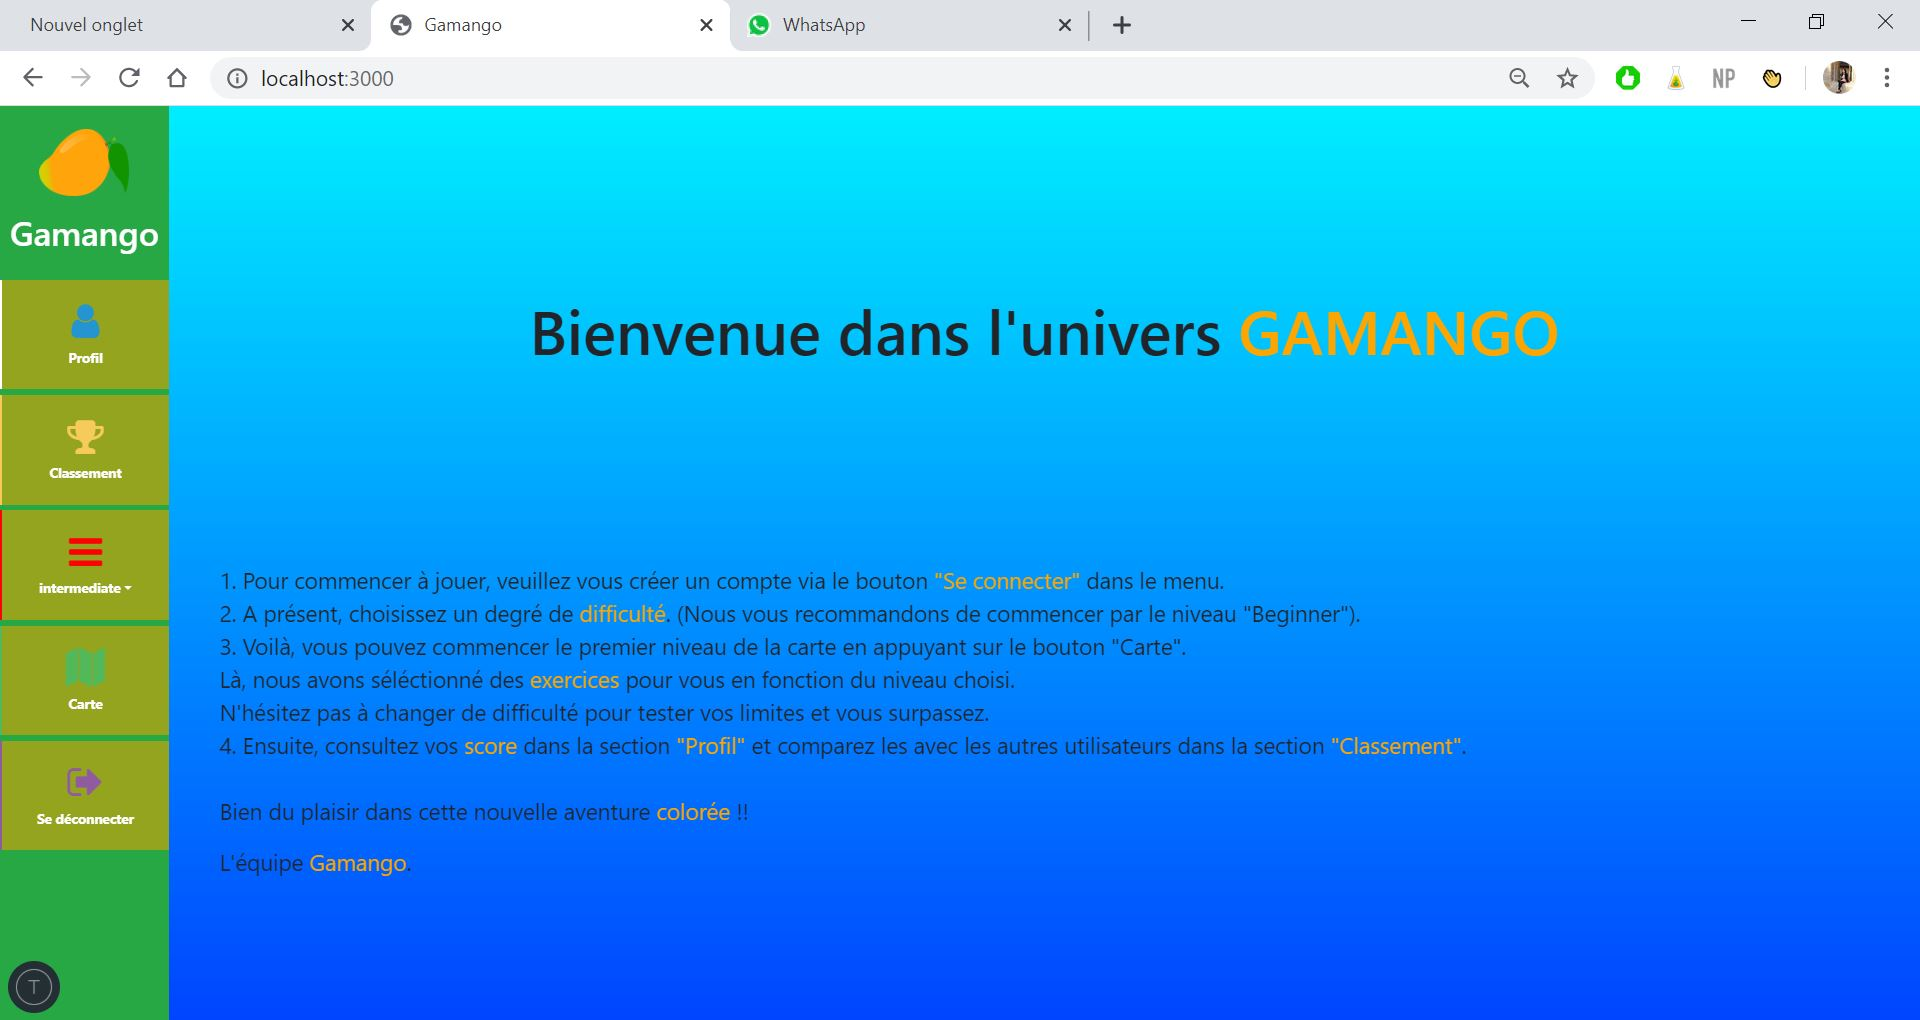
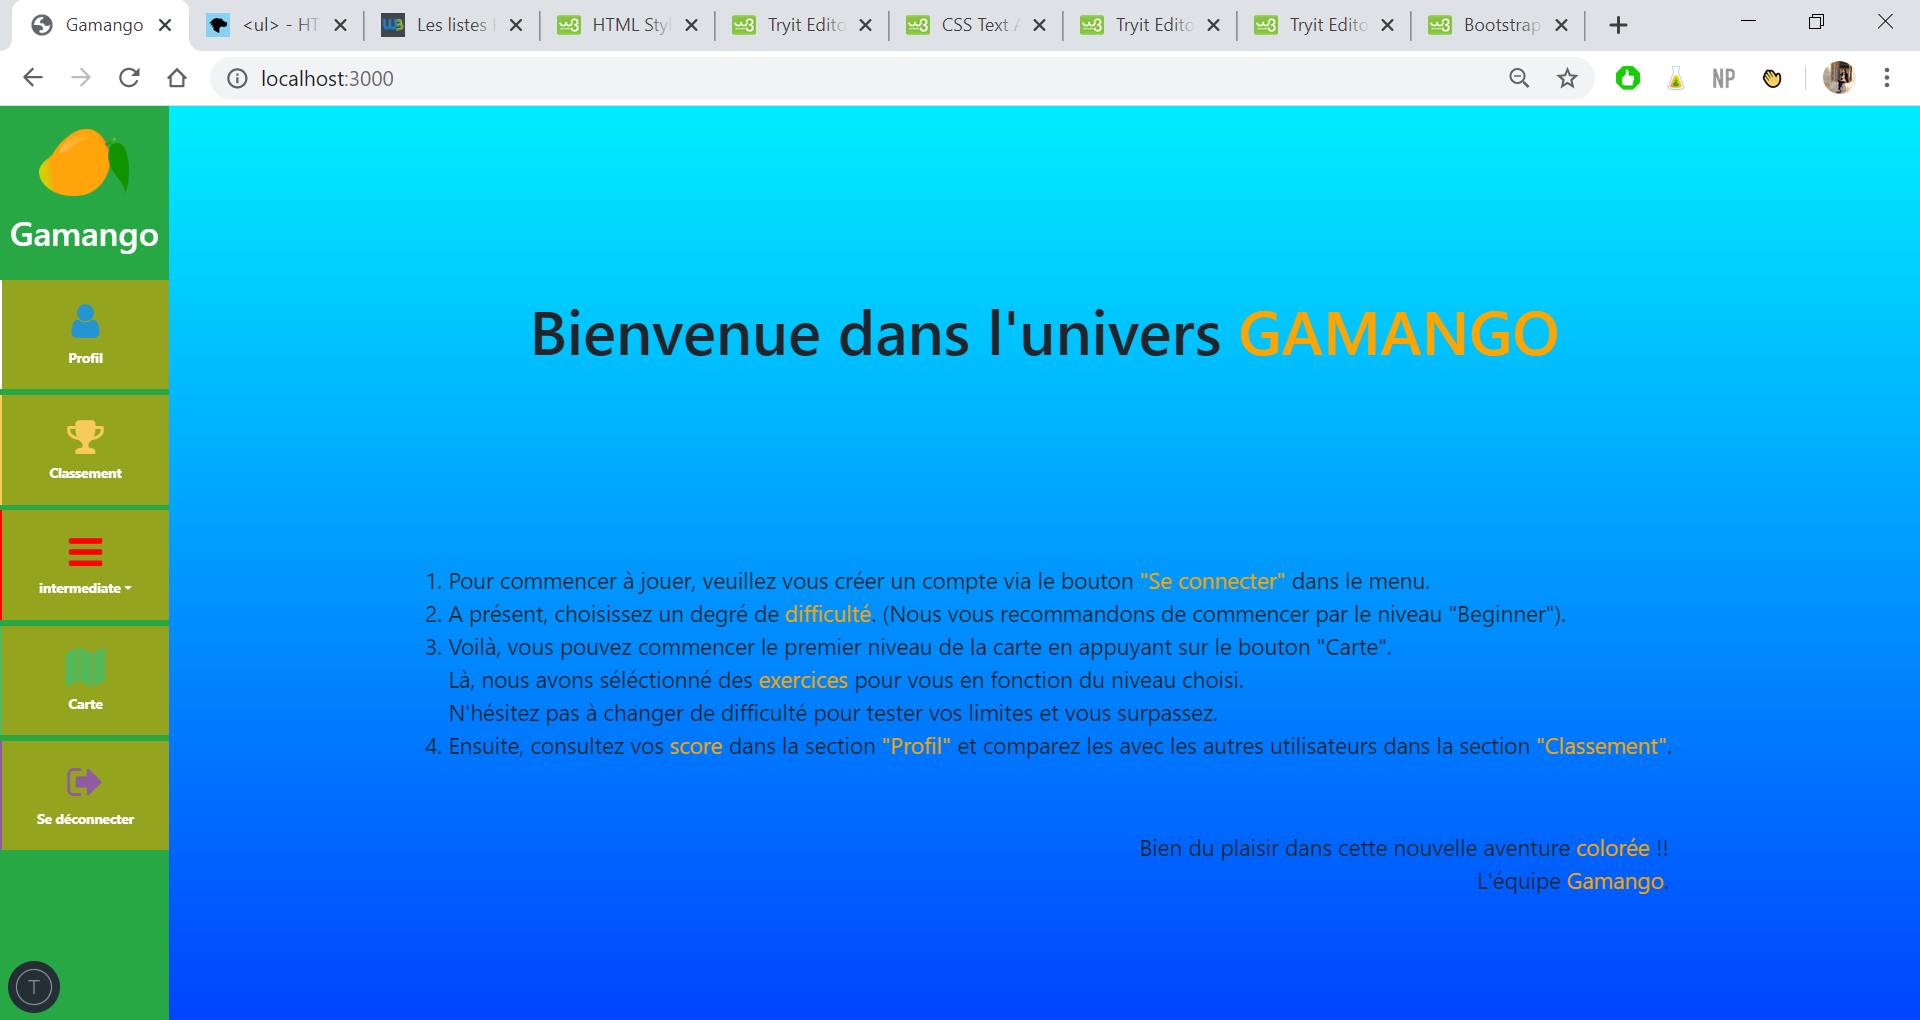
Update html home

diff --git a/import/templates/home/home.html b/import/templates/home/home.html
@@ -6,20 +6,31 @@
      </div>
     </div>
     {{#if currentUser}}
+  <div class="container">
     <div class="row align-items-center">
-      <p id="Consignes">1. Pour commencer à jouer, veuillez vous créer un compte via le bouton <span class="orange">"Se connecter"</span> dans le menu. <br>
-         2. A présent, choisissez un degré de <span class="orange">difficulté</span>. (Nous vous recommandons de commencer par le niveau "Beginner"). <br>
-         3. Voilà, vous pouvez commencer le premier niveau de la carte en appuyant sur le bouton "Carte". <br>
-         Là, nous avons séléctionné des <span class="orange">exercices</span> pour vous en fonction du niveau choisi. <br>
-         N'hésitez pas à changer de difficulté pour tester vos limites et vous surpassez.<br>
-         4. Ensuite, consultez vos <span class="orange">score</span> dans la section <span class="orange">"Profil"</span> 
-         et comparez les avec les autres utilisateurs dans la section <span class="orange">"Classement"</span>.<br><br>
-         Bien du plaisir dans cette nouvelle aventure <span class="orange">colorée</span> !!
+      <p id="Consignes">
+        <ol>
+          <li>Pour commencer à jouer, veuillez vous créer un compte via le bouton <span class="orange">"Se connecter"</span> dans le menu. </li>
+          <li>A présent, choisissez un degré de <span class="orange">difficulté</span>. (Nous vous recommandons de commencer par le niveau "Beginner").</li>
+          <li>Voilà, vous pouvez commencer le premier niveau de la carte en appuyant sur le bouton "Carte".<br>
+            Là, nous avons séléctionné des <span class="orange">exercices</span> pour vous en fonction du niveau choisi. <br>
+            N'hésitez pas à changer de difficulté pour tester vos limites et vous surpassez.<br>
+          </li>
+          <li>Ensuite, consultez vos <span class="orange">score</span> dans la section <span class="orange">"Profil"</span> 
+            et comparez les avec les autres utilisateurs dans la section <span class="orange">"Classement"</span>.
+          </li>
+        </ol>
+        <br>        
       </p>
-      </div>
-    <div class="row align-items-center">
-      <p id="Salutations">L'équipe <span class="orange">Gamango</span>.</p>
-    </div>  
+    </div>
+
+    
+      <p id="Salutations">
+        Bien du plaisir dans cette nouvelle aventure <span class="orange">colorée</span> !!
+        <br>
+        L'équipe <span class="orange">Gamango</span>.</p>
+      
+    </div>
     {{else}}
    <div class="row" id="center">
      <div class="col-lg text-center" id="home">

diff --git a/import/templates/home/home.css b/import/templates/home/home.css
@@ -19,7 +19,7 @@
 
 #Salutations{
   font-size: 20px;
-  text-align: end;
+  text-align: right;
 }
 
 .orange{
